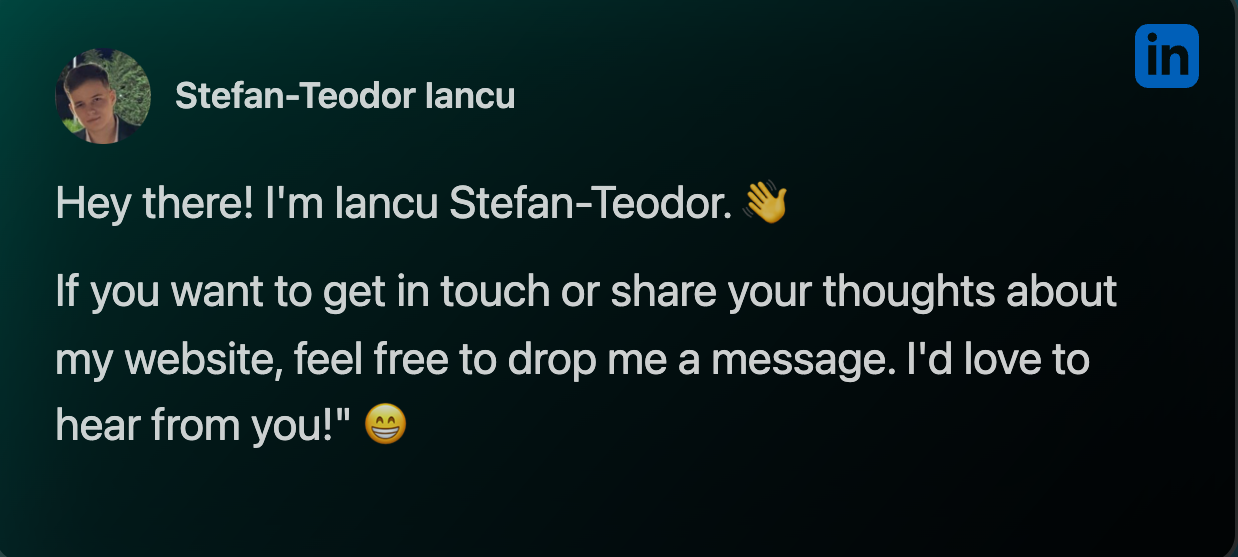
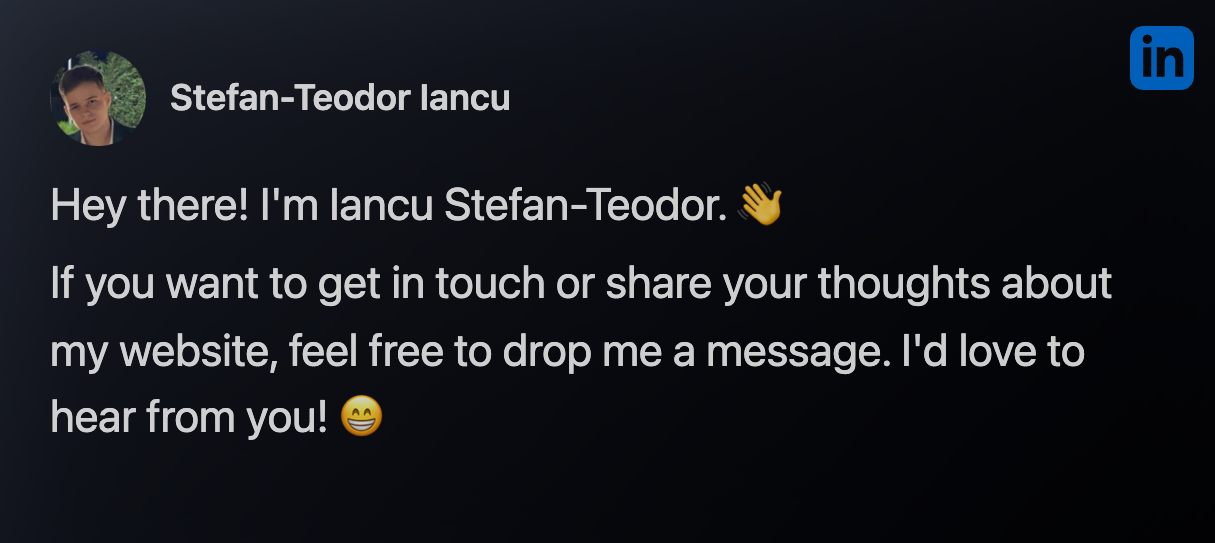
A few modifications and animations to form

diff --git a/style.css b/style.css
@@ -178,7 +178,7 @@ body{
 .container1{
     margin-top: 300px;
     width: 100%;
-    height: 800px;
+    height: 70vh;
     align-items: center;
     justify-content: space-between;
     display: flex;
@@ -196,14 +196,14 @@ body{
     font-weight: 700;
     font-size: 50px;
     color: aliceblue;
-    font-family: 'Young Serif', serif;
+    font-family: 'Tilt Neon', sans-serif;
 }
 
 .text p{
     font-weight: 700;
     font-size: 20px;
     color: whitesmoke;
-    font-family: 'Source Code Pro', monospace;
+    font-family: 'Raleway', sans-serif;
 }
 
 .text span{
@@ -258,7 +258,7 @@ body{
     font-weight: 700;
     font-size: 20px;
     color: whitesmoke;
-    font-family: 'Source Code Pro', monospace;
+    font-family: 'Raleway', sans-serif;
 }
 
 
@@ -328,7 +328,7 @@ body{
 
 .portfolio h2{
     margin-bottom: 6%;
-    font-family: 'Source Code Pro', monospace;
+    font-family: 'Raleway', sans-serif;
     font-size: 30px;
     font-weight: 600;
 }
@@ -369,7 +369,7 @@ body{
 }
 
 .project-description{
-    font-family: 'Source Code Pro', monospace;
+    font-family: 'Raleway', sans-serif;
     font-size: 20px;
     font-weight: 400;
 }
@@ -380,6 +380,7 @@ body{
     width: 100%;
     height: 65vh;
     align-items: center;
+    margin-bottom: 10%;
 }
 
 .contact-block{
@@ -412,11 +413,6 @@ body{
     border-bottom: 1px solid grey;
 }
 
-.popup-block{
-    display: flex;
-    flex-direction: column;
-}
-
 .popup-block a{
     margin-left: 20%;
     display: flex;
@@ -429,8 +425,57 @@ body{
     border-radius: 10%;
 }
 
-input:focus, textarea:focus {
+textarea{
+    resize: none;
+}
+
+.input-text::placeholder{
+    transition: 0.5s;
+}
+
+.input-text{
+    transition: 0.5s;
+}
+
+.input-text:focus{
     outline: none;
+    font-size: 24px;
+    font-weight: 700;
+}
+
+.input-text:focus::placeholder{
+    color: aqua;
+    transform: translateX(20px);
+    transform: translateY(-7px);
+    font-size: 23px;
+    font-weight: 700;
+}  
+
+.container4 a{
+    display: inline-flex;
+    width: 40px;
+    height: 40px;
+    background: transparent;
+    border: 2px solid aqua;
+    border-radius: 50%;
+    font-size: 20px;
+    color: aqua;
+    text-decoration: none;
+    justify-content: center;
+    align-items: center;
+    margin-top: 10%;
+    margin-left: 200px;
+    margin-bottom: 40px;
+    transition: 0.5s ease;
+    opacity: 0;
+    animation: slideBottomBig 1.2s ease forwards;
+    animation-delay: calc(0.39s * var(--i));
+}
+
+.container4 a:hover{
+    background: aqua;
+    color: grey;
+    box-shadow: 0 0 20px aqua;
 }
 
 .button-19 {

diff --git a/index.html b/index.html
@@ -121,18 +121,21 @@
             <div class ="container4">
                 <div class="popup-block">
                     <img src = "images/popup-image.png" id = "popup-image">
+                    <a href = "https://www.instagram.com/iancustefan26/" target = _blank style = "--i:6;"><i class='bx bxl-instagram-alt'></i></a>
+                    <a href = "https://www.linkedin.com/in/stefan-teodor-iancu-152a6a284/" target = _blank style = "--i:7;"><i class='bx bxl-linkedin-square'></i></a>
+                    <a href = "https://github.com/iancustefan26" target = _blank style = "--i:8;"><i class='bx bxl-github'></i></a>
                 </div>
                 <div class="contact-block">
                     <h2>Say Hello!👋</h2>
                     <form method = "post" class = "contact-form">
                         <label for = "name"></label>
-                        <input type = "text" class = "input-text" placeholder="Your name: ">
+                        <input type = "text" class = "input-text" placeholder="Your name: " required = "required">
                         <br>
                         <label for ="email"></label>
-                        <input type = "email" class = "input-text" placeholder="Your e-mail: ">
+                        <input type = "email" class = "input-text" placeholder="Your e-mail: " required = "required">
                         <br>
                         <label for = "message"></label>
-                        <textarea class = "input-text" placeholder="Your thoughts: "></textarea>
+                        <textarea class = "input-text" placeholder="Your thoughts: " required = "required"></textarea>
                         <button class="button-19" role="button">Send Message</button>
                     </form>
                 </div>
